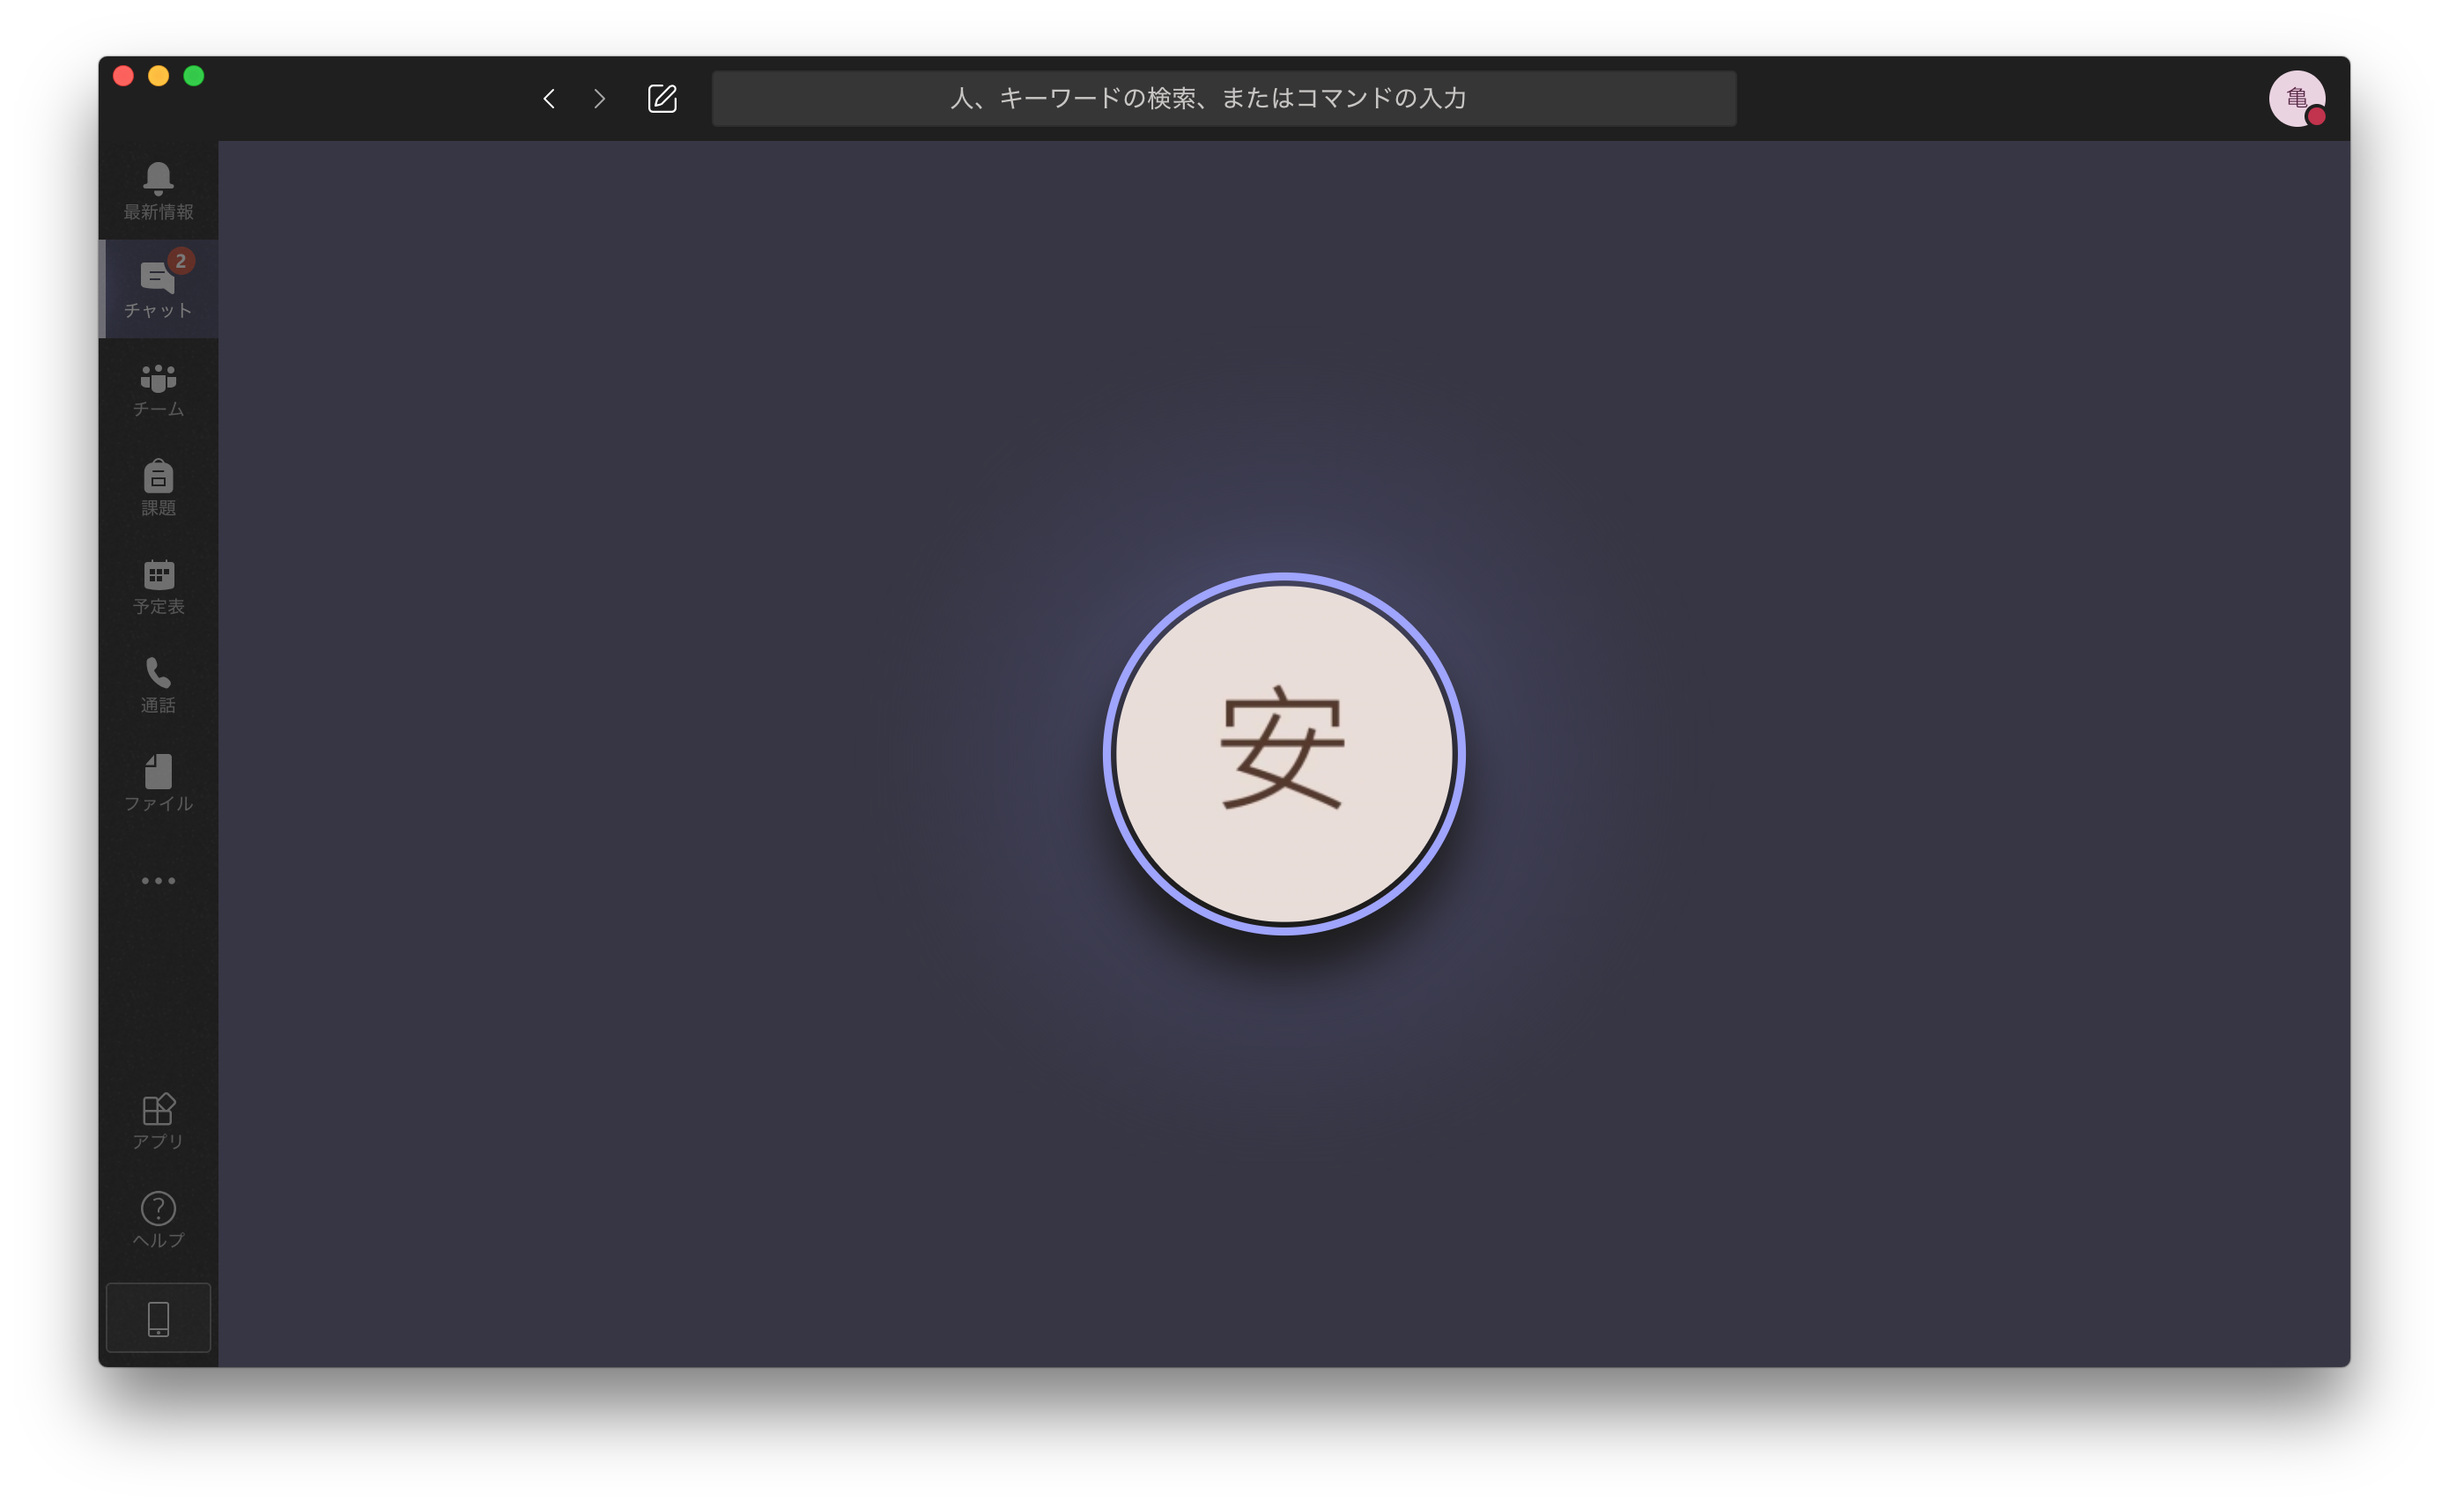
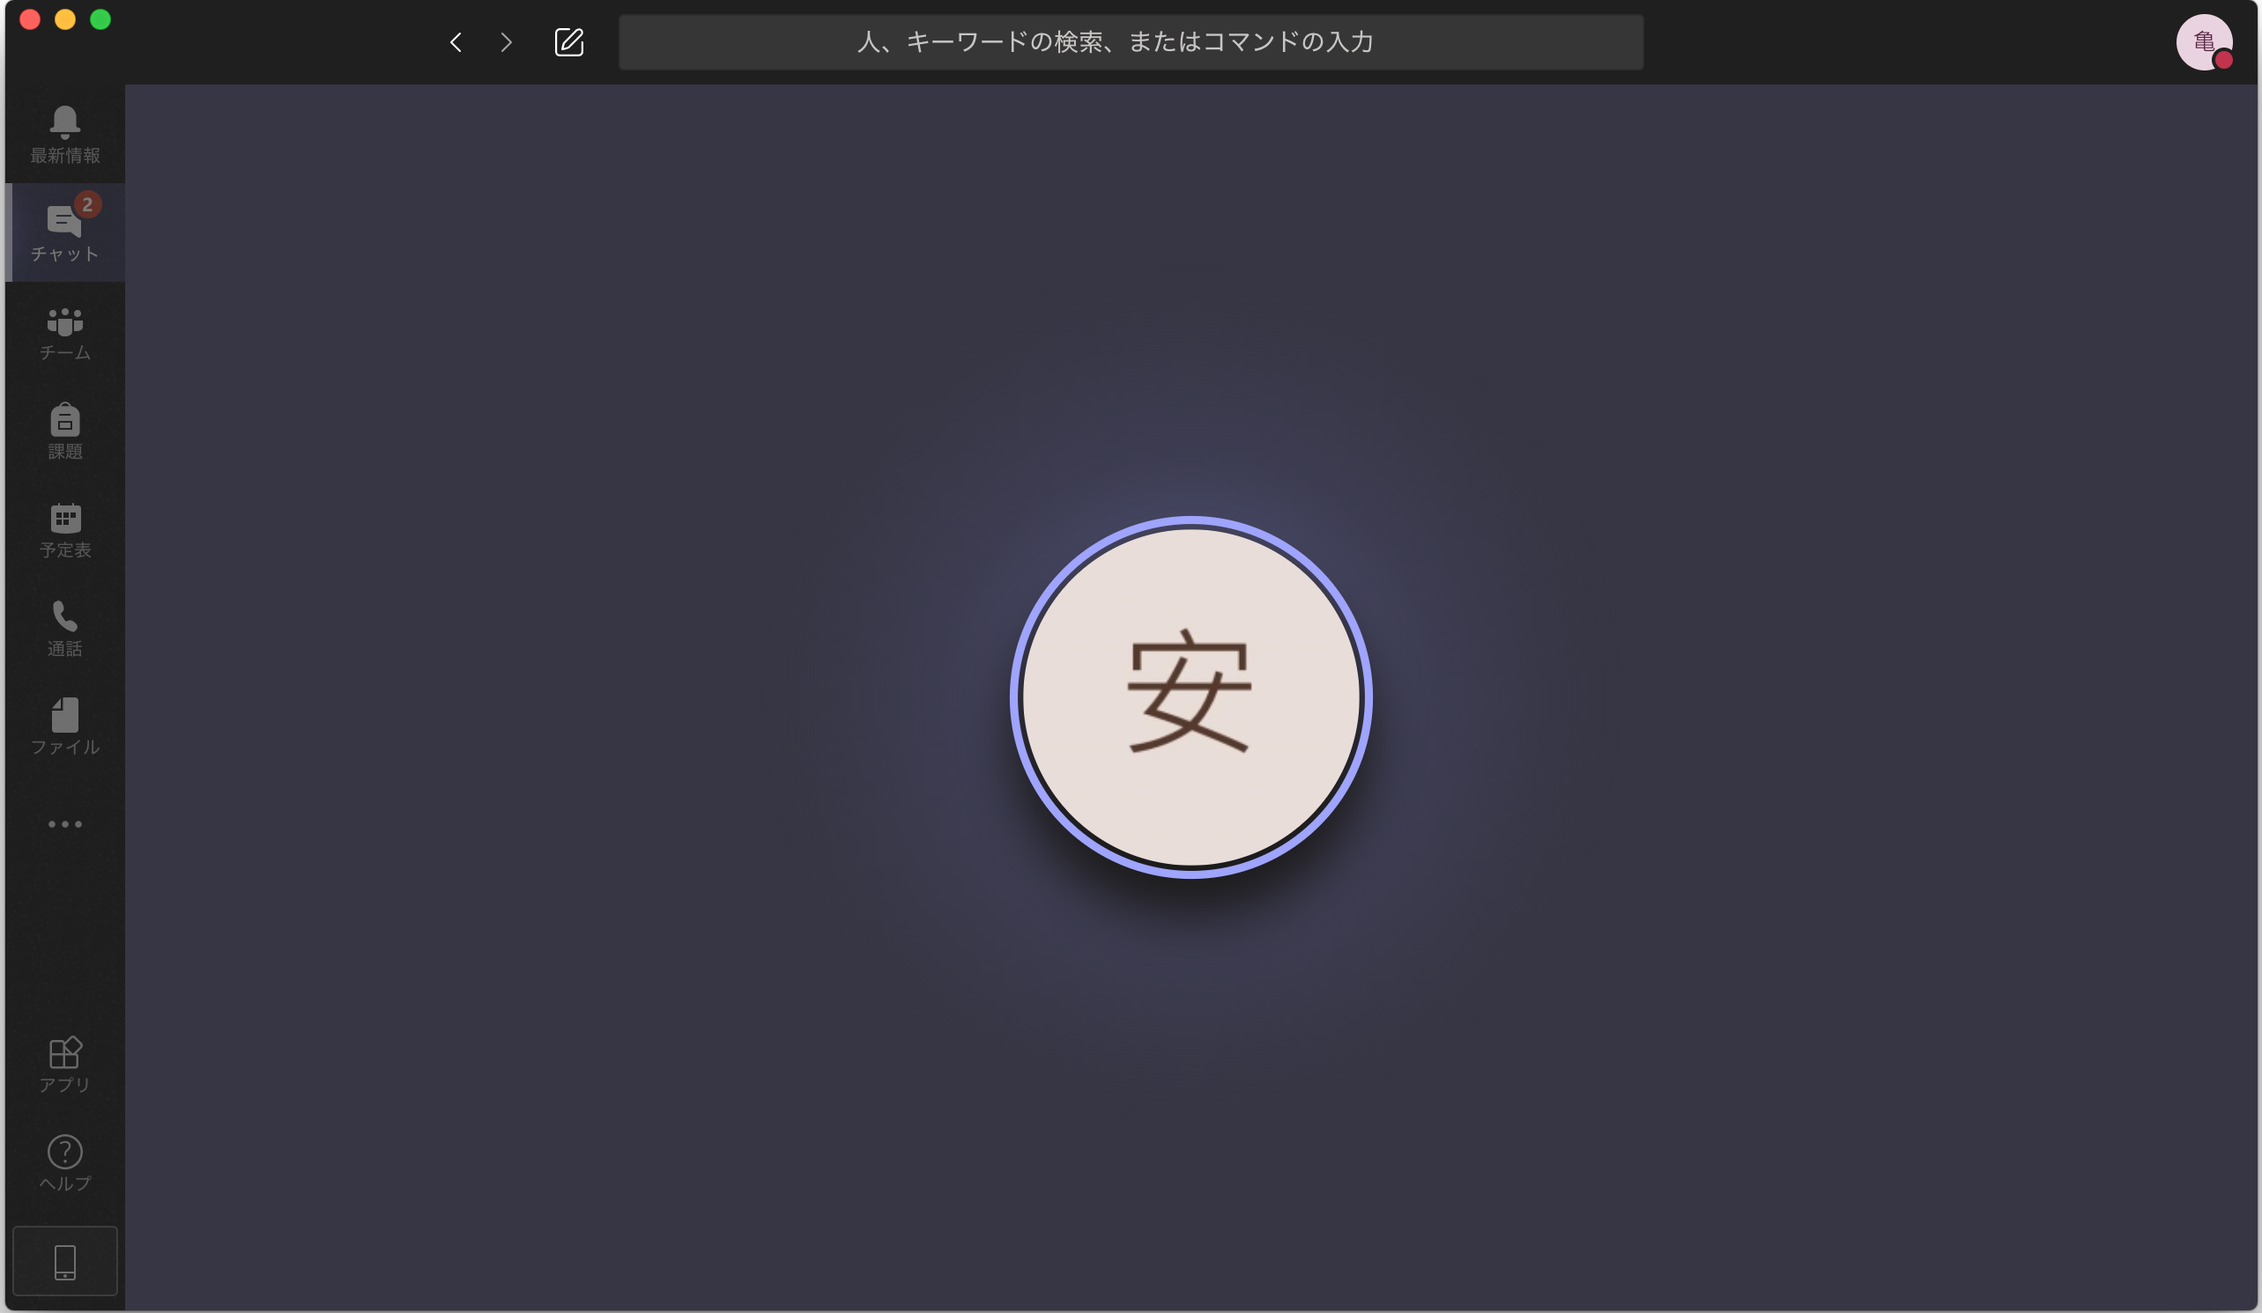
fix background image

Changed region(s): [[0.0, 0.0, 1.0, 1.0], [0.4363, 0.3702, 0.6233, 0.7096]]

diff --git a/call.css b/call.css
@@ -1,4 +1,5 @@
 body {
-  background-image: url("image/call_screen.png");
+    background-size: 1280px 720px;
+	background-image: url("image/call_screen.png");
   background-repeat: no-repeat;
 }
